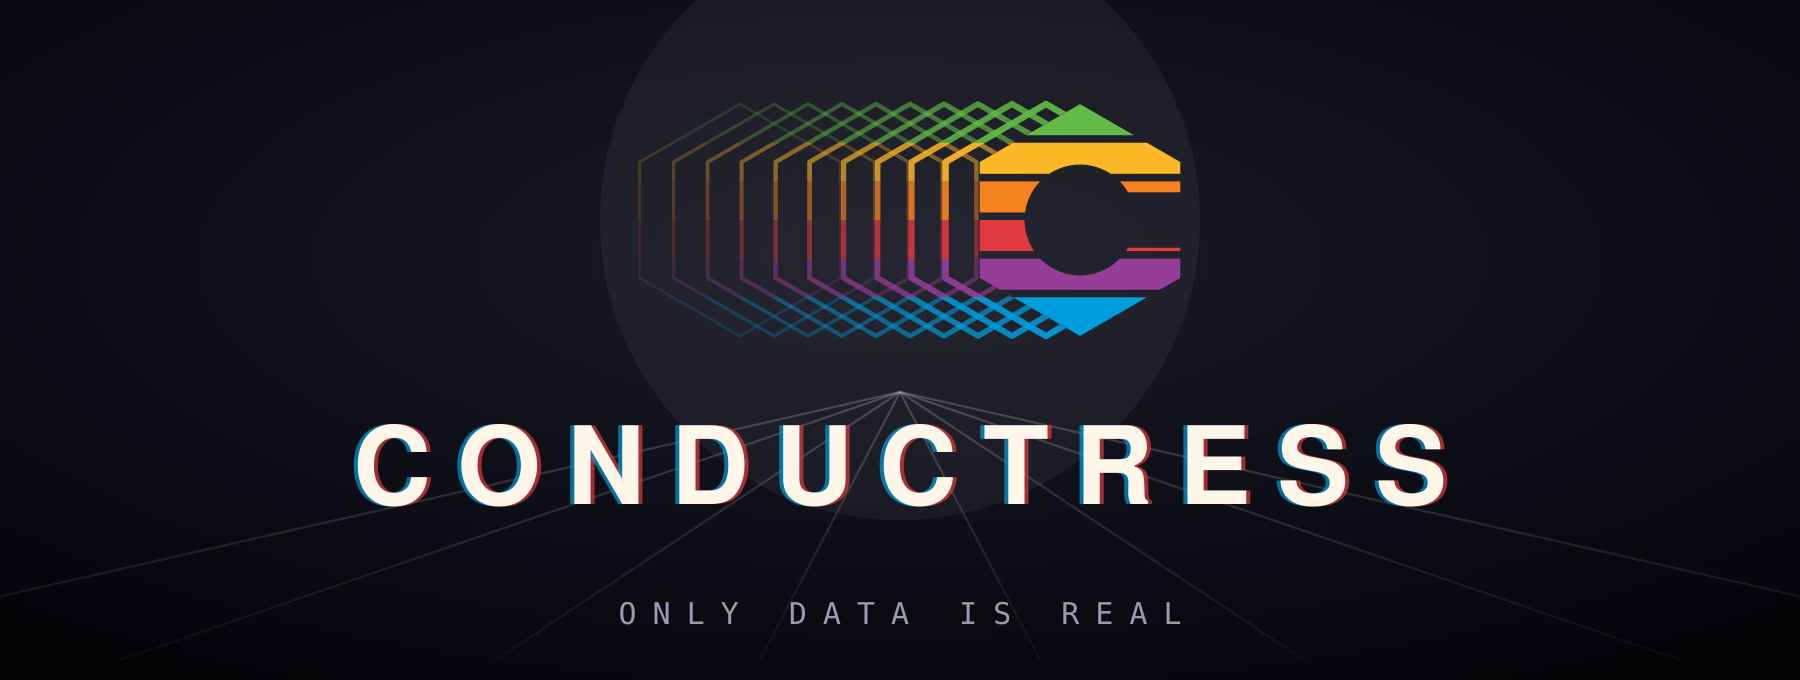
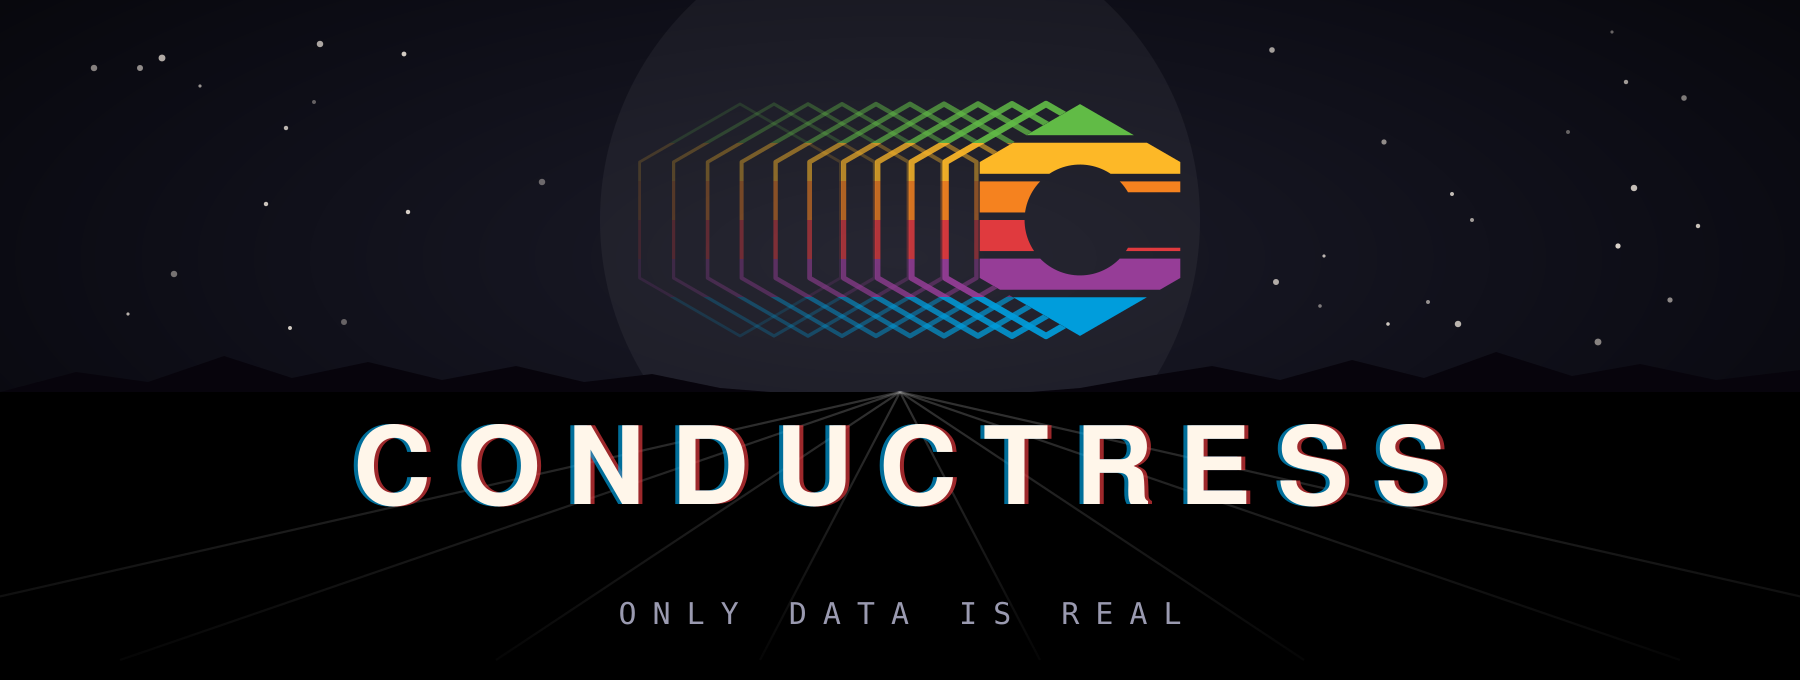
brand: match hero to the sign-on scene; split copyright from trademark
The hero SVG/PNG now carries the starfield, mountain silhouettes and
black ground plane from the sign-on, so the animation's resting frame
and the static hero are the same picture, as the guide states.

brand/LICENSE separates the two things it was conflating: the artwork
is CC BY 4.0 (which grants no trademark rights, per its own s.2(b)(2)),
and a distinct trademark section states that the name and keyhole-C
mark identify the project, may be used to refer to it, and should not
be the identity of a fork or derivative. A CC notice cannot carry that
restriction itself. Third-party references (Valkey hexagon, Apple
rainbow homage) are named explicitly.

Changed region(s): [[0.1867, 0.5559, 0.8089, 0.7721]]

diff --git a/brand/tools/build.py b/brand/tools/build.py
@@ -239,6 +239,36 @@ def not_lead_clip() -> str:
     return "".join(polys)
 
 
+STARS = [
+    (736, 110, 1.0, .61), (729, 162, 1.6, .71), (636, 25, 1.4, .62), (64, 157, 0.8, .70), (660, 153, 0.9, .46),
+    (726, 97, 1.0, .75), (202, 27, 1.2, .81), (87, 137, 1.6, .43), (714, 151, 1.0, .56), (100, 43, 0.8, .58),
+    (849, 113, 1.1, .77), (813, 41, 1.1, .61), (47, 34, 1.6, .50), (694, 162, 0.9, .79), (806, 16, 0.8, .38),
+    (70, 34, 1.5, .55), (172, 161, 1.5, .36), (842, 49, 1.4, .47), (809, 123, 1.3, .84), (835, 150, 1.3, .53),
+    (692, 71, 1.3, .54), (143, 64, 1.1, .72), (157, 51, 1.0, .36), (81, 29, 1.7, .68), (662, 128, 0.8, .72),
+    (145, 164, 1.0, .81), (271, 91, 1.6, .38), (817, 94, 1.6, .76), (799, 171, 1.7, .50), (160, 22, 1.6, .66),
+    (784, 66, 1.0, .37), (204, 106, 1.1, .83), (133, 102, 1.1, .78), (638, 141, 1.5, .67),
+]
+MOUNTAINS = (
+    "M0 196 L38 186 L74 191 L112 178 L146 189 L184 181 L221 190 L258 183 L292 191 L326 187 L360 194 L385 196 Z",
+    "M515 196 L540 194 L568 189 L606 183 L640 190 L676 180 L712 189 L748 176 L786 188 L820 182 L858 190 L900 185 L900 196 Z",
+)
+
+
+def scenery() -> str:
+    """Stars either side of the mark, mountain silhouettes on the horizon, black ground.
+    Identical to the sign-on's resting frame (brand/motion), which is the rule."""
+    stars = "\n".join(f'    <circle cx="{x}" cy="{y}" r="{r}" opacity="{o:.2f}"/>' for x, y, r, o in STARS)
+    mts = "\n".join(f'    <path d="{d}"/>' for d in MOUNTAINS)
+    return f"""  <g id="stars" fill="{SUNSET['paper']}">
+{stars}
+  </g>
+  <g id="mountains" fill="#07040c">
+{mts}
+  </g>
+  <rect id="ground" x="0" y="196" width="900" height="144" fill="#000"/>
+"""
+
+
 def lockup_svg(palette: str, opaque: bool, word_d: str, sub_d: str) -> str:
     p = ("s" if palette == "sunset" else "r") + ("h" if opaque else "l")
     ramp_ref = f"{p}-ramp"
@@ -248,7 +278,7 @@ def lockup_svg(palette: str, opaque: bool, word_d: str, sub_d: str) -> str:
     <rect width="900" height="340" fill="url(#{p}-sky)"/>
     <circle cx="450" cy="110" r="150" fill="{SUNSET['orange'] if palette == 'sunset' else '#ffffff'}" opacity="{0.07 if palette == 'sunset' else 0.05}"/>
   </g>
-  <g id="horizon" opacity="0.7">
+{scenery()}  <g id="horizon" opacity="0.7">
 {GRID.format(p=p)}
   </g>
 """

diff --git a/brand/README.md b/brand/README.md
@@ -29,7 +29,7 @@ The subtitle is **ONLY DATA IS REAL**.
 
 | File | What it is | Use it for |
 |---|---|---|
-| `logo/conductress-hero.svg` / `.png` (1800x680) | Full scene: sky, grid horizon, streaks, trail, C, wordmark, subtitle. Opaque. | README top, social preview, slides |
+| `logo/conductress-hero.svg` / `.png` (1800x680) | Full scene: starfield, mountain horizon, grid, streaks, trail, C, wordmark, subtitle. Opaque. Identical to the sign-on's resting frame. | README top, social preview, slides |
 | `logo/conductress-lockup.svg` | Streaks, trail, C, wordmark, subtitle on a **transparent** background | Dashboard header, docs, anywhere the page supplies the background |
 | `logo/conductress-wordmark.svg` | CONDUCTRESS alone, with its chromatic fringe | Beside a mark that is placed separately |
 | `logo/conductress-mark.svg` / `-512.png` / `-180.png` | The C alone, 7 stripes | 64px and up; app icon; apple-touch-icon (180) |
@@ -170,9 +170,15 @@ a timestamp for frame capture.
   the reference; the mark itself belongs to LF Projects.
 - Do not stretch, rotate, outline, or drop-shadow the mark.
 
-## Licence
+## Licence and trademark
 
-The Conductress code is under the repository's BSD 3-Clause licence. The brand
-assets in this directory are under [CC BY 4.0](LICENSE): use and adapt them
-with attribution, but do not present a fork or an unrelated project as
-Conductress.
+The Conductress code is under the repository's BSD 3-Clause licence. The
+artwork in this directory is under [CC BY 4.0](LICENSE): copy and adapt it with
+attribution.
+
+Copyright is not the thing that protects a logo, though. The name
+"Conductress" and the keyhole-C mark identify this project; they are
+unregistered marks, and [LICENSE](LICENSE) carries the usage statement: refer
+to Conductress freely, adapt the artwork for the project freely, but do not use
+the name or mark as the identity of a fork, a derivative, or anything the
+project did not produce. A fork should pick its own name and mark.
